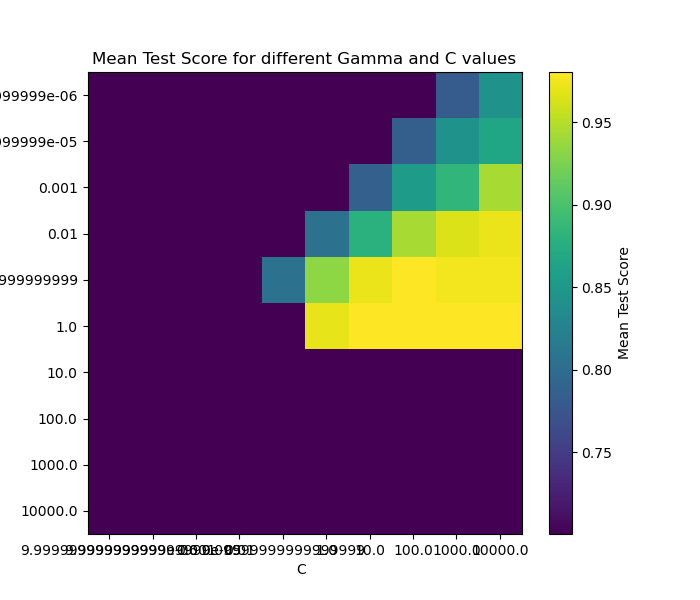
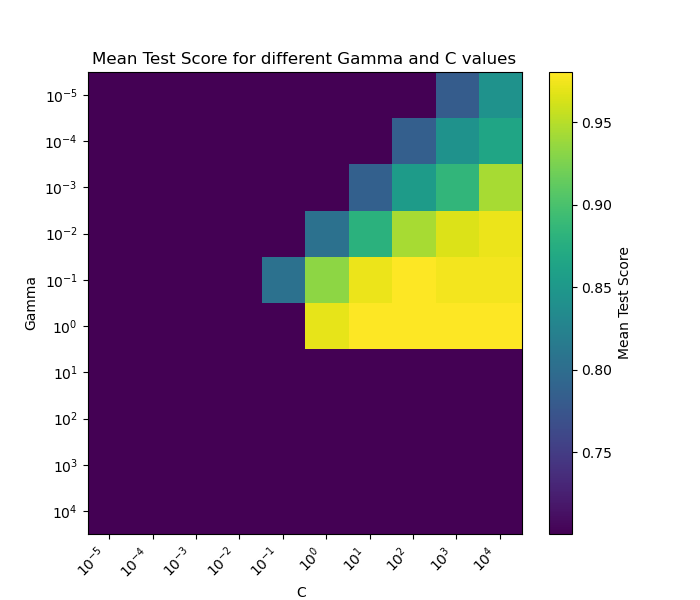
finish revising

diff --git a/report/car_evaluation_analysis.html b/report/car_evaluation_analysis.html
@@ -81,7 +81,7 @@ div.csl-indent {
   <li><a href="#results-discussion" id="toc-results-discussion" class="nav-link" data-scroll-target="#results-discussion">Results &amp; Discussion</a></li>
   <li><a href="#references" id="toc-references" class="nav-link" data-scroll-target="#references">References</a></li>
   </ul>
-<div class="quarto-alternate-formats"><h2>Other Formats</h2><ul><li><a href="car_evaluation_analysis.pdf"><i class="bi bi-file-pdf"></i>PDF</a></li></ul></div></nav>
+<div class="quarto-alternate-formats"><h2>Other Formats</h2><ul><li><a href="../car_evaluation_analysis.pdf"><i class="bi bi-file-pdf"></i>PDF</a></li></ul></div></nav>
 </div>
 <main class="content" id="quarto-document-content">
 
@@ -213,7 +213,7 @@ Table&nbsp;1: Results of model selection conducted using cross-validation
 <td style="text-align: right;">0.97</td>
 <td style="text-align: right;">0.003</td>
 <td style="text-align: right;">0.943</td>
-<td style="text-align: right;">0.011</td>
+<td style="text-align: right;">0.01</td>
 </tr>
 <tr class="even">
 <td style="text-align: left;">SVM RBF</td>
@@ -260,7 +260,7 @@ Figure&nbsp;1: Heatmap of test scores obtained during hyperparameter optimisatio
 </figcaption>
 </figure>
 </div>
-<p>We observed that the best hyperparameter of <code>C</code> and <code>gamma</code> are 100.0 and 0.1 respectively. All categorical features were passed through <code>OrdinalEncoder</code> prior to model fitting. The Python programming language <span class="citation" data-cites="Python">(<a href="#ref-Python" role="doc-biblioref">Van Rossum and Drake 2009</a>)</span> and the following Python packages were used to perform the analysis: numpy <span class="citation" data-cites="harris2020array">(<a href="#ref-harris2020array" role="doc-biblioref">Harris et al. 2020</a>)</span>, Pandas <span class="citation" data-cites="mckinney-proc-scipy-2010">(<a href="#ref-mckinney-proc-scipy-2010" role="doc-biblioref">McKinney 2010</a>)</span>, matplotlib <span class="citation" data-cites="Hunter:2007">(<a href="#ref-Hunter:2007" role="doc-biblioref">Hunter 2007</a>)</span>, scikit-learn <span class="citation" data-cites="scikit-learn">(<a href="#ref-scikit-learn" role="doc-biblioref">Pedregosa et al. 2011</a>)</span>. The code used to perform the analysis and create this report can be found here: <a href="https://github.com/UBC-MDS/Car_Evaluation_Analysis/blob/main/scripts">https://github.com/UBC-MDS/Car_Evaluation_Analysis/blob/main/scripts</a></p>
+<p>We observed that the best hyperparameter of <code>C</code> and <code>gamma</code> are 100.0 and 0.09999999999999999 respectively. All categorical features were passed through <code>OrdinalEncoder</code> prior to model fitting. The Python programming language <span class="citation" data-cites="Python">(<a href="#ref-Python" role="doc-biblioref">Van Rossum and Drake 2009</a>)</span> and the following Python packages were used to perform the analysis: numpy <span class="citation" data-cites="harris2020array">(<a href="#ref-harris2020array" role="doc-biblioref">Harris et al. 2020</a>)</span>, Pandas <span class="citation" data-cites="mckinney-proc-scipy-2010">(<a href="#ref-mckinney-proc-scipy-2010" role="doc-biblioref">McKinney 2010</a>)</span>, matplotlib <span class="citation" data-cites="Hunter:2007">(<a href="#ref-Hunter:2007" role="doc-biblioref">Hunter 2007</a>)</span>, scikit-learn <span class="citation" data-cites="scikit-learn">(<a href="#ref-scikit-learn" role="doc-biblioref">Pedregosa et al. 2011</a>)</span>. The code used to perform the analysis and create this report can be found here: <a href="https://github.com/UBC-MDS/Car_Evaluation_Analysis/blob/main/scripts">https://github.com/UBC-MDS/Car_Evaluation_Analysis/blob/main/scripts</a></p>
 </section>
 </section>
 <section id="results-discussion" class="level2">

diff --git a/scripts/fit_car_analysis_classifier.py b/scripts/fit_car_analysis_classifier.py
@@ -48,8 +48,17 @@ def main(training_data, preprocessor, pipeline_to, plot_to, seed):
     plt.ylabel('Gamma')
     plt.imshow(pivot_table, cmap='viridis', interpolation='nearest', aspect='auto')
     plt.colorbar(label='Mean Test Score')
-    plt.xticks(np.arange(len(pivot_table.columns)), pivot_table.columns)
-    plt.yticks(np.arange(len(pivot_table.index)), pivot_table.index)
+    c_values = pivot_table.columns.astype(float)
+    gamma_values = pivot_table.index.astype(float)
+    plt.xticks(
+    ticks=np.arange(len(c_values)), 
+    labels=[f"$10^{{{int(np.log10(c))}}}$" for c in c_values],
+    rotation=45, ha='right'
+    )
+    plt.yticks(
+    ticks=np.arange(len(gamma_values)), 
+    labels=[f"$10^{{{int(np.log10(g))}}}$" for g in gamma_values]
+    )
     plt.savefig(os.path.join(plot_to, "car_hyperparameter.png"))
 
 if __name__ == '__main__':
